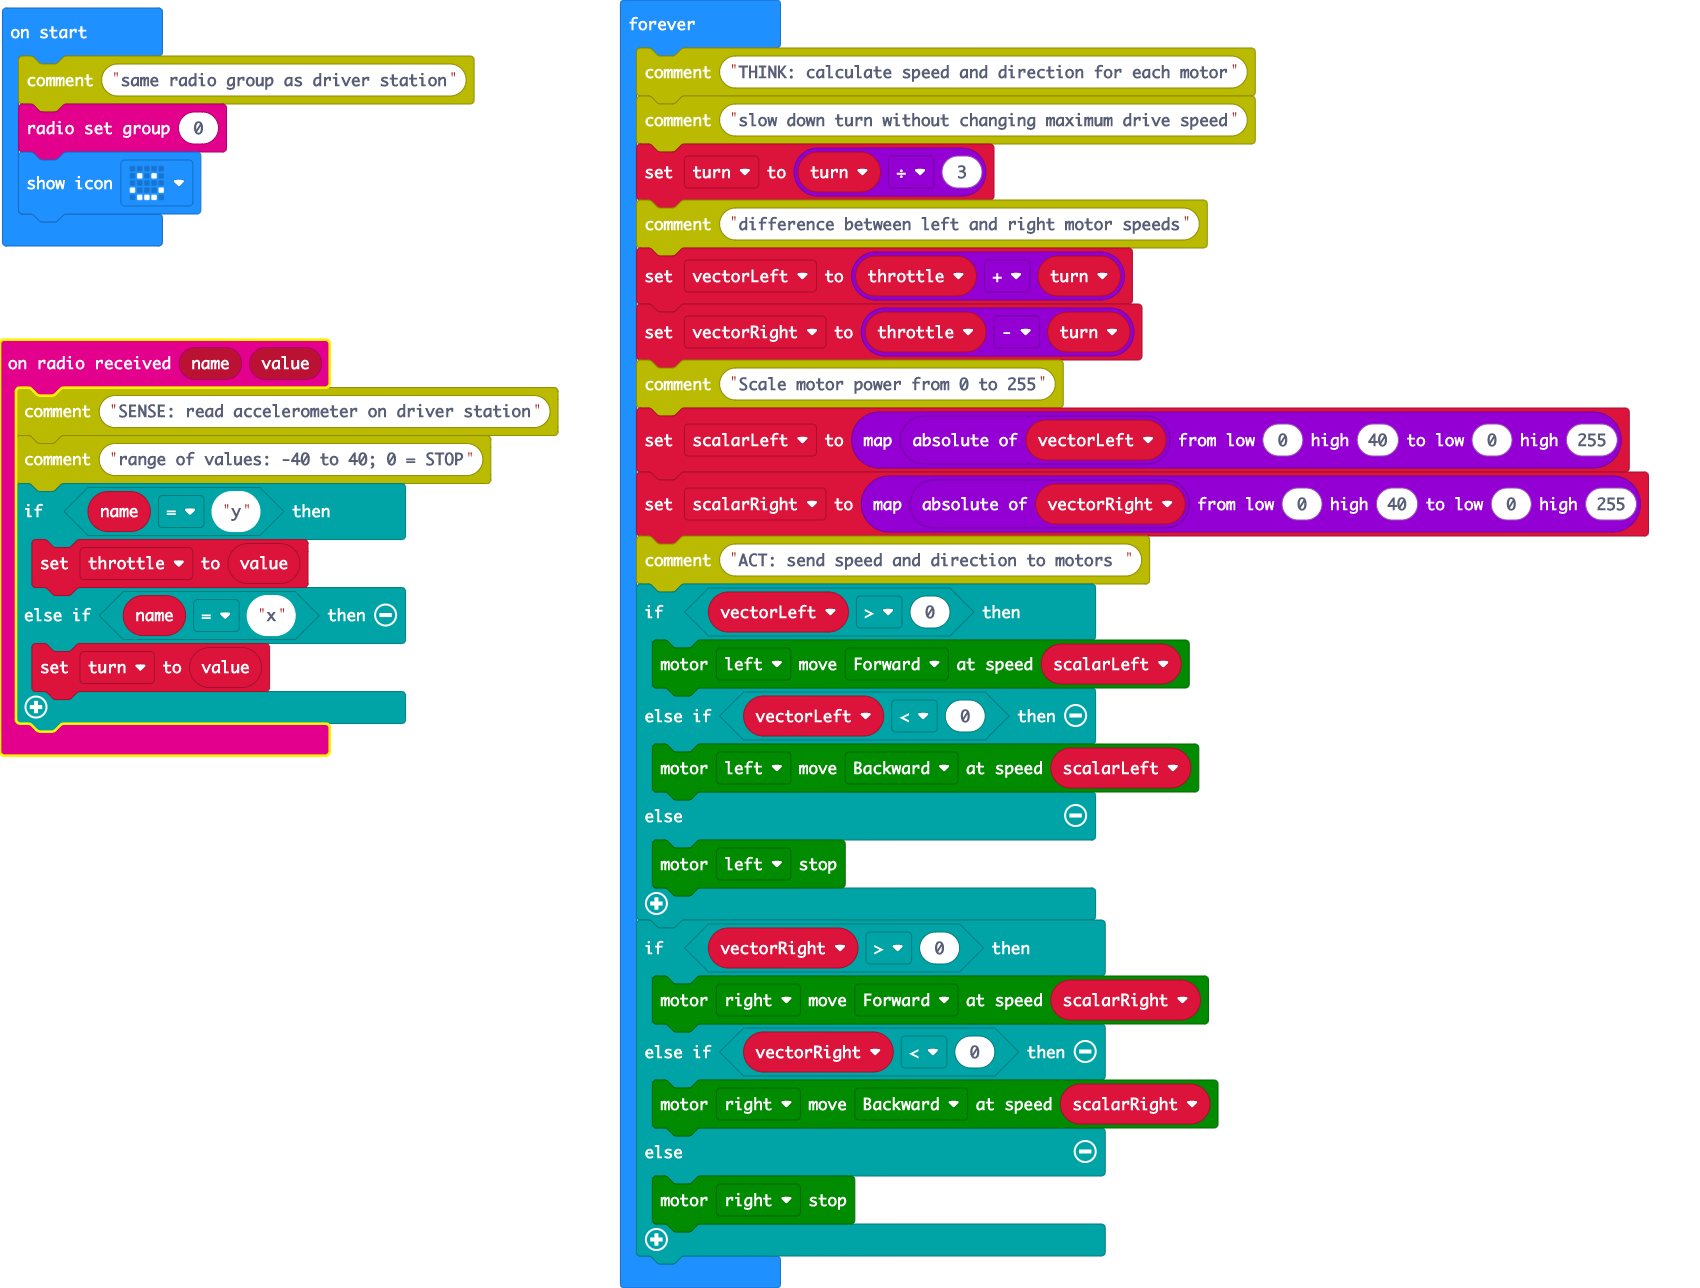
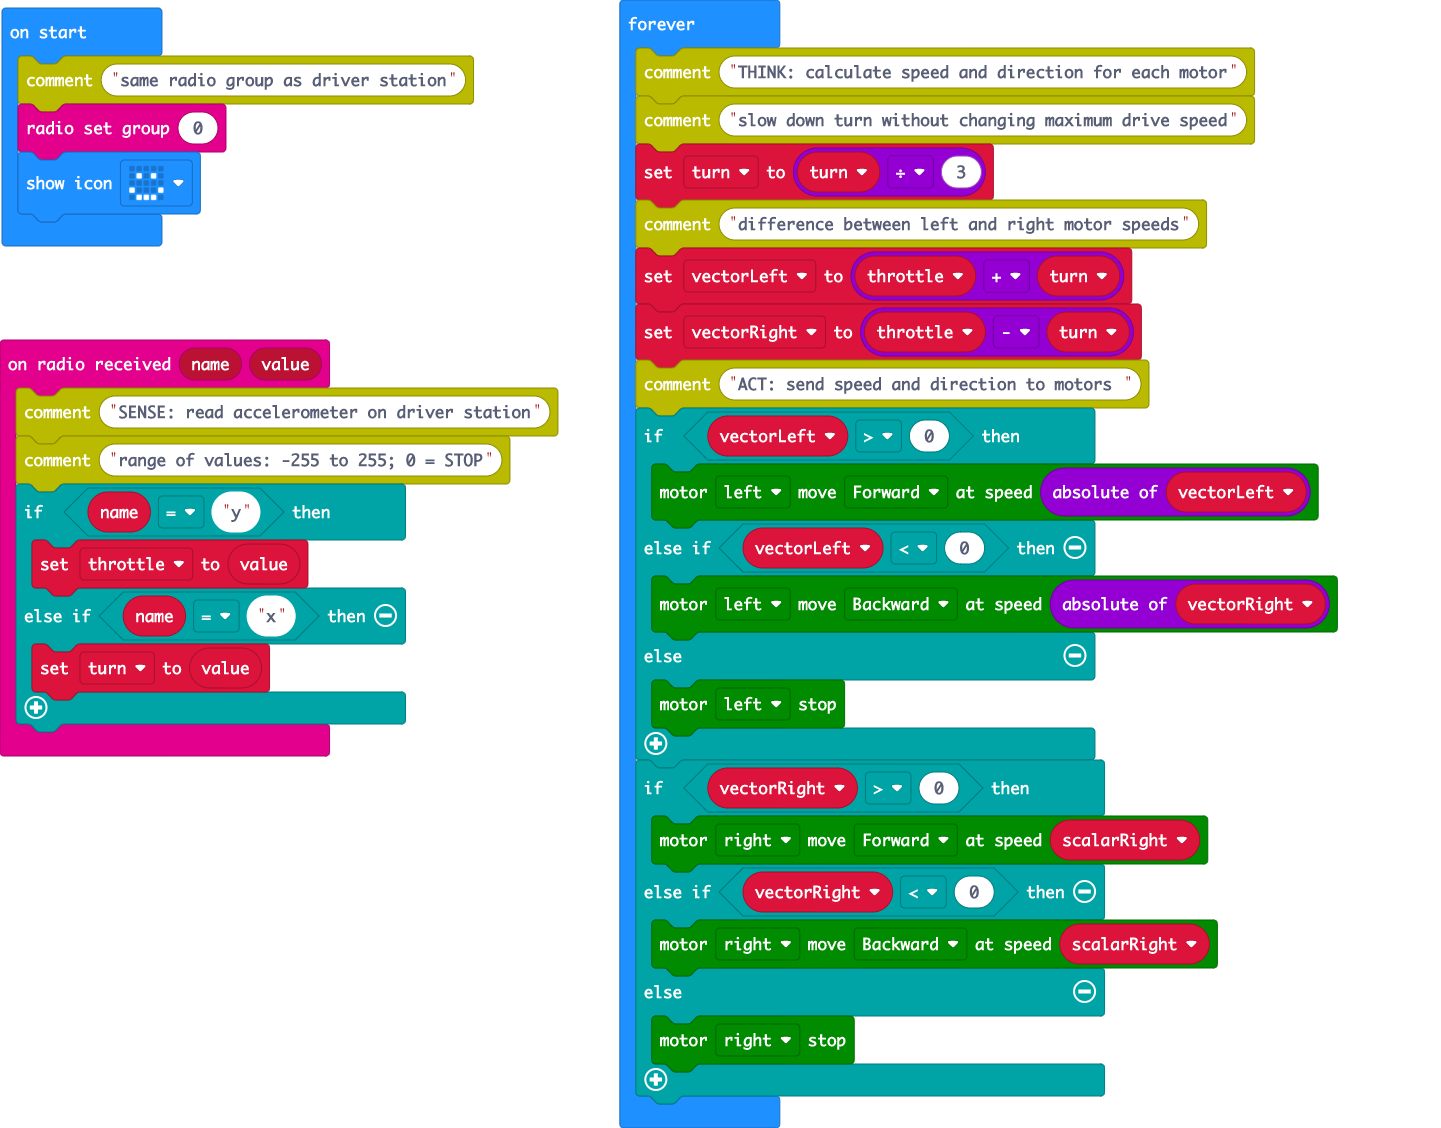
Update main.blocks, main.ts

diff --git a/main.ts b/main.ts
@@ -1,14 +1,12 @@
 radio.onReceivedValue(function (name, value) {
     comment.comment("SENSE: read accelerometer on driver station")
-    comment.comment("range of values: -40 to 40; 0 = STOP")
+    comment.comment("range of values: -255 to 255; 0 = STOP")
     if (name == "y") {
         throttle = value
     } else if (name == "x") {
         turn = value
     }
 })
-let scalarRight = 0
-let scalarLeft = 0
 let vectorRight = 0
 let vectorLeft = 0
 let turn = 0
@@ -17,20 +15,18 @@ comment.comment("same radio group as driver station")
 radio.setGroup(0)
 basic.showIcon(IconNames.Happy)
 basic.forever(function () {
+    let scalarRight = 0
     comment.comment("THINK: calculate speed and direction for each motor")
     comment.comment("slow down turn without changing maximum drive speed")
     turn = turn / 3
     comment.comment("difference between left and right motor speeds")
     vectorLeft = throttle + turn
     vectorRight = throttle - turn
-    comment.comment("Scale motor power from 0 to 255")
-    scalarLeft = Math.map(Math.abs(vectorLeft), 0, 40, 0, 255)
-    scalarRight = Math.map(Math.abs(vectorRight), 0, 40, 0, 255)
     comment.comment("ACT: send speed and direction to motors ")
     if (vectorLeft > 0) {
-        maqueen.motorRun(maqueen.Motors.M1, maqueen.Dir.CW, scalarLeft)
+        maqueen.motorRun(maqueen.Motors.M1, maqueen.Dir.CW, Math.abs(vectorLeft))
     } else if (vectorLeft < 0) {
-        maqueen.motorRun(maqueen.Motors.M1, maqueen.Dir.CCW, scalarLeft)
+        maqueen.motorRun(maqueen.Motors.M1, maqueen.Dir.CCW, Math.abs(vectorRight))
     } else {
         maqueen.motorStop(maqueen.Motors.M1)
     }
